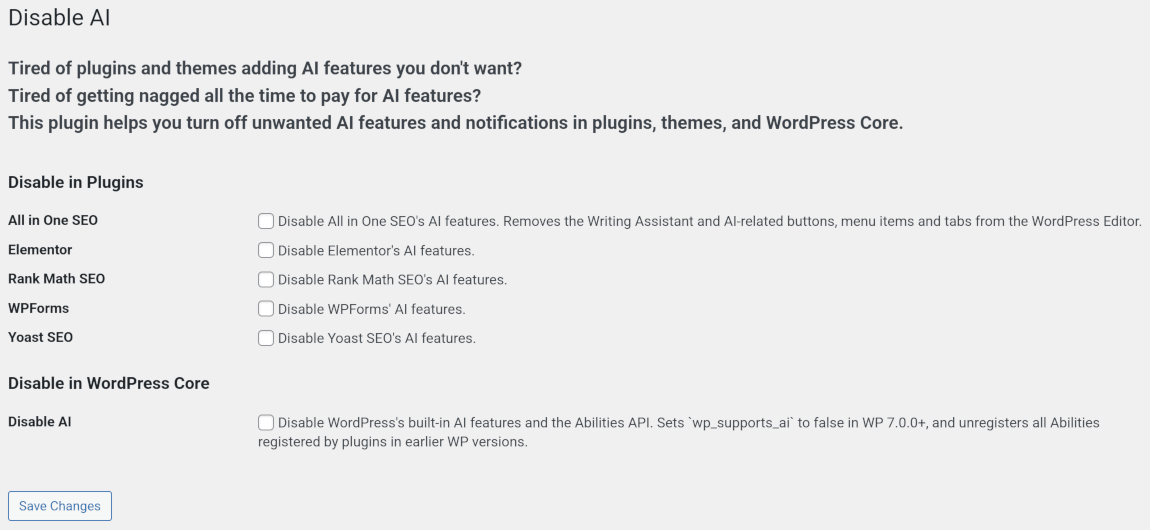
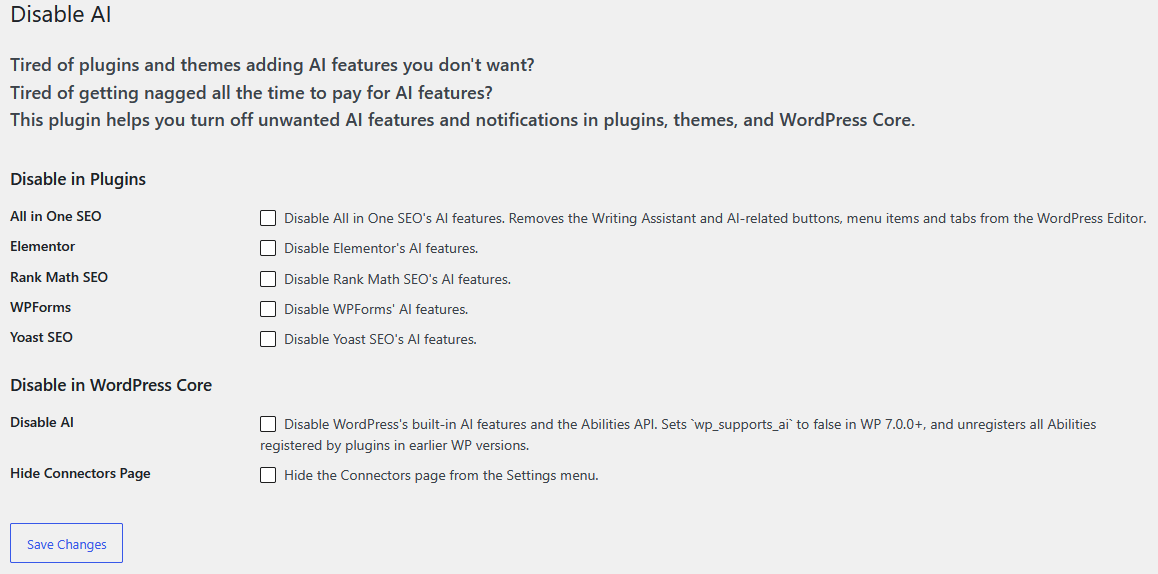
feat: Fix WP Core feature, hide WP Core Connectors page, disable Elementor MCP and remove from menus (#11)

diff --git a/admin/css/admin_options.css b/admin/css/admin_options.css
@@ -11,6 +11,10 @@
     }
 }
 
+.form-table td input[type="checkbox"] {
+    margin-right: 0.5rem;
+}
+
 .child-table {
     width: 100%;
     margin-top: 10px;

diff --git a/includes/utilities/class-plugin-elementor.php b/includes/utilities/class-plugin-elementor.php
@@ -30,12 +30,34 @@ class DISAI_Plugin_Elementor {
 	}
 
 	/**
+	 * Remove AI menu items from WP Admin left sidebar
+	 *
+	 * @since    1.0.0
+	 */
+	public function remove_admin_sidebar_menu_items() {
+		// Remove Elementor MCP admin menu
+		remove_submenu_page( 'elementor-home', 'elementor-mcp' );
+
+		// Remove Elementor MCP flyout menu sidebar items
+		add_filter( 'elementor/editor-one/menu/excluded_level3_slugs', function( $slugs ) {
+			$slugs[] = 'elementor-mcp';
+
+			return $slugs;
+		}, 10, 1 );
+	}
+
+	/**
 	 * Execute commands after initialization
 	 *
 	 * @since    0.1.0
 	 */
 	public function run() {
+		// Disable AI in user options, and hide setting from user profile page
 		add_filter( 'get_user_option_elementor_enable_ai', '__return_zero' );
 		add_action( 'admin_print_styles', array( $this, 'hide_ai_user_preferences' ) );
+
+		// Disable Elementor MCP
+		add_filter( 'option_elementor_mcp_enabled', '__return_false', 10, 1 );
+		add_action( 'admin_menu', array( $this, 'remove_admin_sidebar_menu_items' ), 999999 );
 	}
 }

diff --git a/includes/utilities/class-core-hide-connectors-page.php b/includes/utilities/class-core-hide-connectors-page.php
@@ -1,0 +1,35 @@
+<?php
+
+/**
+ * Fired when the WordPress Core Hide Connectors Page utility is active.
+ * 
+ * This class defines all code necessary to hide the connectors page in WordPress Core.
+ *
+ * @link       https://github.com/jruns/wp-disable-ai
+ * @since      1.0.0
+ *
+ * @package    DisableAI
+ * @subpackage DisableAI/includes/utilities
+ */
+
+// Exit if accessed directly
+if ( ! defined( 'ABSPATH' ) ) exit;
+
+class DISAI_Core_Hide_Connectors_Page {
+
+	public function __construct() {
+	}
+
+	/**
+	 * Execute commands after initialization
+	 *
+	 * @since    1.0.0
+	 */
+	public function run() {
+        if ( function_exists( 'wp_supports_ai' ) ) {
+            add_action( 'admin_menu', function() {
+                remove_submenu_page( 'options-general.php', 'options-connectors.php' );
+            }, 999 );
+        }
+	}
+}

diff --git a/disable-ai.php b/disable-ai.php
@@ -6,8 +6,8 @@
  * @wordpress-plugin
  * Plugin Name:       Disable AI
  * Plugin URI:        https://github.com/jruns/wp-disable-ai
- * Description:       Turn off unwanted AI features and notifications in plugins, themes, and WordPress Core.
- * Version:           0.5.0
+ * Description:       Turn off AI features and notifications in plugins, themes, and WordPress Core.
+ * Version:           1.0.0
  * Author:            jruns
  * Author URI:        https://github.com/jruns
  * License:           GPL-2.0+
@@ -20,7 +20,7 @@
 // Exit if accessed directly
 if ( ! defined( 'ABSPATH' ) ) exit;
 
-define( 'DISAI_VERSION', '0.5.0' );
+define( 'DISAI_VERSION', '1.0.0' );
 define( 'DISAI_BASE_NAME', plugin_basename( __FILE__ ) );
 
 /**

diff --git a/admin/partials/admin-options-display.php b/admin/partials/admin-options-display.php
@@ -91,6 +91,14 @@ $args = array(
     'description'       => 'Disable WordPress\'s built-in AI features and the Abilities API. Sets `wp_supports_ai` to false in WP 7.0.0+, and unregisters all Abilities registered by plugins in earlier WP versions.'
 );
 disai_output_admin_option( $args, $disai_settings, $disai_wpconfig_mode );
+
+$args = array(
+    'type'              => 'core',
+    'name'              => 'hide_connectors_page',
+    'heading'           => 'Hide Connectors Page',
+    'description'       => 'Hide the Connectors page from the Settings menu.'
+);
+disai_output_admin_option( $args, $disai_settings, $disai_wpconfig_mode );
 ?>
 </table>
 

diff --git a/includes/utilities/class-core-disable-ai.php b/includes/utilities/class-core-disable-ai.php
@@ -28,7 +28,7 @@ class DISAI_Core_Disable_Ai {
 	public function run() {
         if ( function_exists( 'wp_supports_ai' ) ) {
             // WP version is at least 7.0.0
-            add_filter( 'wp_supports_ai', __return_false, PHP_INT_MAX );
+            add_filter( 'wp_supports_ai', '__return_false', PHP_INT_MAX );
         } else {
             // WP version is less than 7.0.0
 
@@ -37,7 +37,7 @@ class DISAI_Core_Disable_Ai {
                 foreach ( $abilities as $ability ) {
                     wp_unregister_ability( $ability->get_name() );
                 }
-            }, PHP_INT_MAX);
+            }, PHP_INT_MAX );
         }
 	}
 }

diff --git a/includes/class-disableai.php b/includes/class-disableai.php
@@ -80,7 +80,7 @@ class DisableAI {
 		if ( defined( 'DISAI_VERSION' ) ) {
 			$this->version = DISAI_VERSION;
 		} else {
-			$this->version = '0.5.0';
+			$this->version = '1.0.0';
 		}
 		$this->plugin_name = 'disable-ai';
 

diff --git a/README.md b/README.md
@@ -10,3 +10,4 @@ Disable AI is a WordPress plugin to disable AI features in plugins, themes, and 
 
 **WordPress Core features currently supported:**  
 - Disable AI - Disable WordPress Core AI features and the Abilities API.
+- Hide Connectors Page - Hide the Connectors page from the Settings menu.
